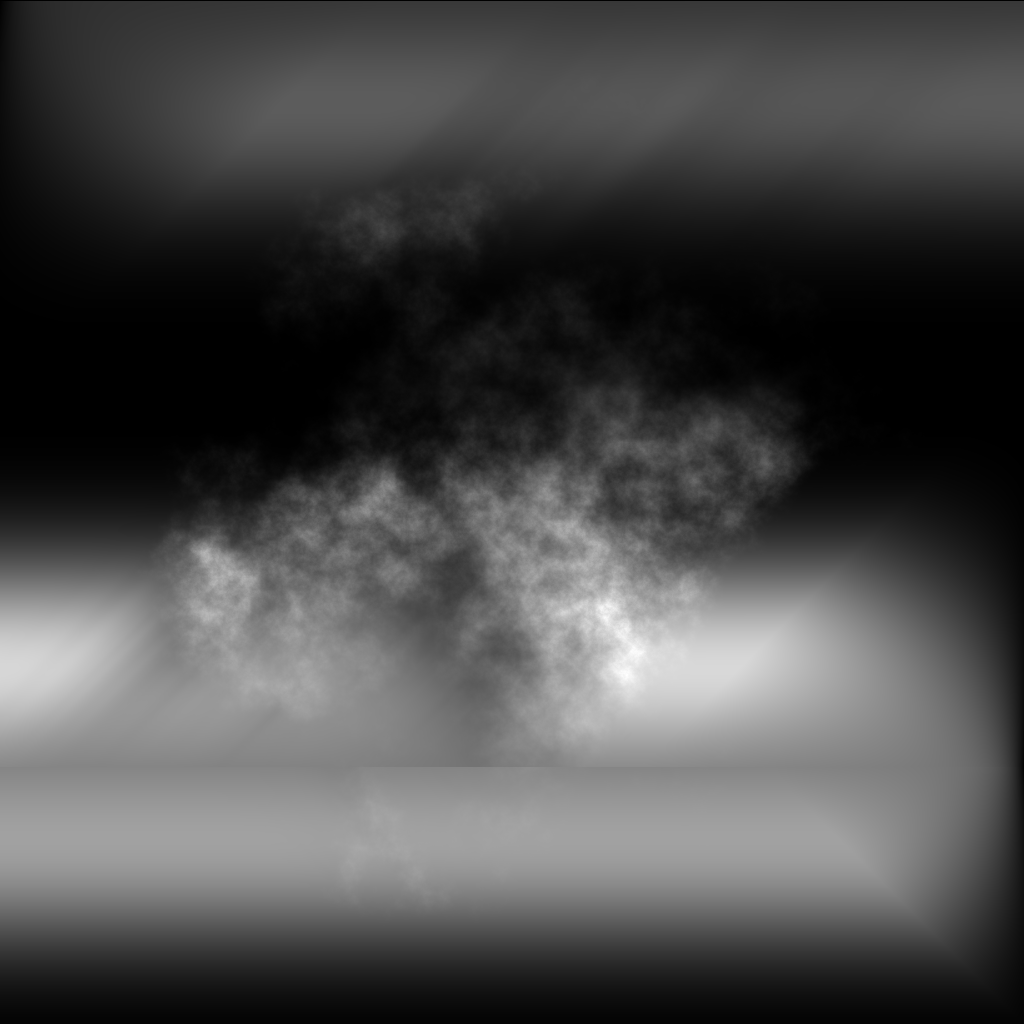
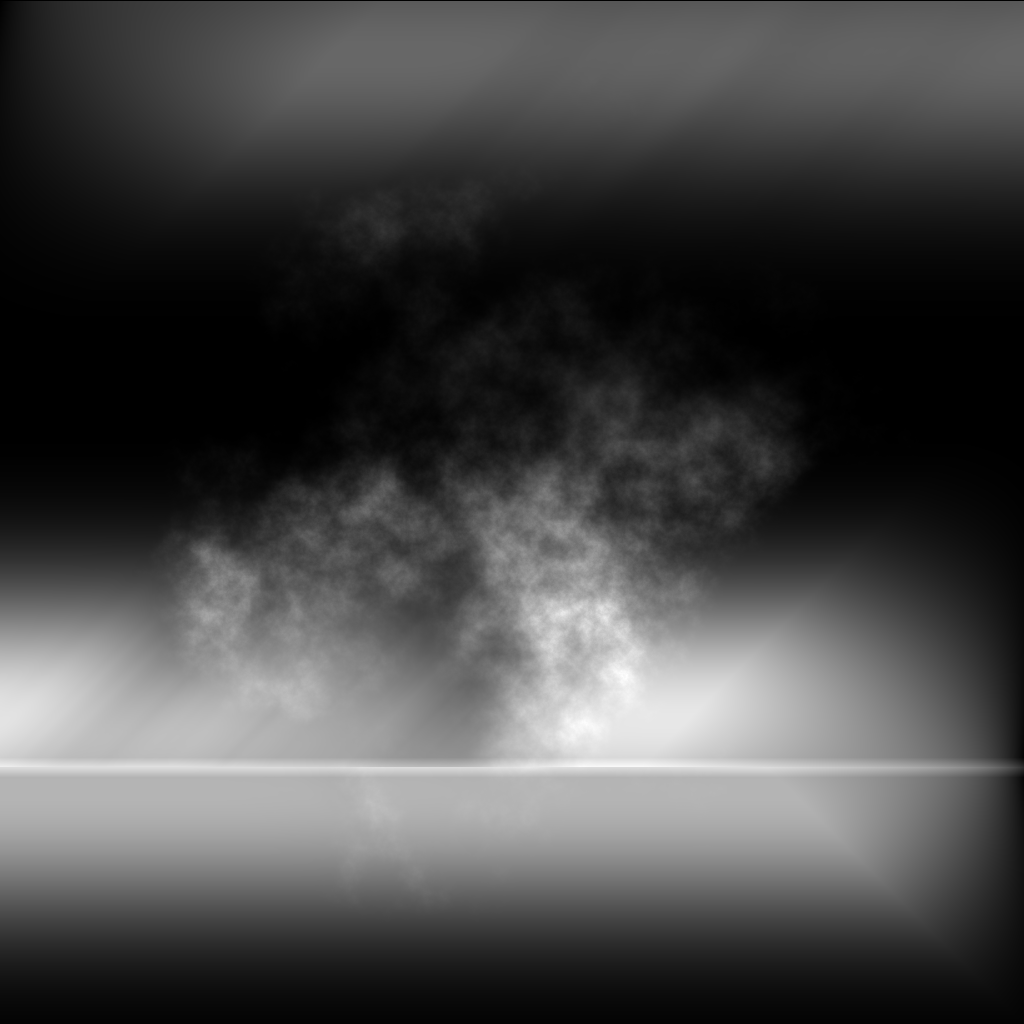
Attempt to bandaid the equator line

diff --git a/src/map.rs b/src/map.rs
@@ -154,7 +154,7 @@ fn do_wind(x: usize, y: usize, y_to: usize, lat: f64, lat_goal: f64,
 
         let lat_t = latitudes[ii];
 
-        let cloud = water * (heightmap[ii].powf(0.75) + ((lat_t - lat) / (lat_goal - lat)).powi(3)) * 50. / size as f64;
+        let cloud = water * (heightmap[ii].powf(0.75) + ((lat_t - lat) / (lat_goal - lat)).powi(3)) * 25. / size as f64;
         cloudmap[ii] = cloud;
         water -= cloud;
     }
@@ -324,18 +324,18 @@ impl ProvBuilder {
 
         if s30 != s60 {
             for x in 0..size {
-                do_wind(x, s30, s60, -30., -60., (1., -1.), size, &mut self.cloudmap, &self.latitude, &self.heightmap, 0.2, 1.);
+                do_wind(x, s30, s60, -30., -60., (1., -1.), size, &mut self.cloudmap, &self.latitude, &self.heightmap, 0.1, 1.);
             }
             for y in s60..s30 {
-                do_wind(0, y, s60, -30., -60., (1., -1.), size, &mut self.cloudmap, &self.latitude, &self.heightmap, 0.2, (y - s60) as f64 / (s30 - s60) as f64);
+                do_wind(0, y, s60, -30., -60., (1., -1.), size, &mut self.cloudmap, &self.latitude, &self.heightmap, 0.1, (y - s60) as f64 / (s30 - s60) as f64);
             }
         }
         if s30 != s0 {
             for x in 0..size {
-                do_wind(x, s30, s0, -30., 0., (-1., 1.), size, &mut self.cloudmap, &self.latitude, &self.heightmap, 0.5, 1.);
+                do_wind(x, s30, s0, -30., 0., (-1., 1.), size, &mut self.cloudmap, &self.latitude, &self.heightmap, 0.25, 1.);
             }
             for y in s30..s0 {
-                do_wind(size - 1, y, s0, -30., 0., (-1., 1.), size, &mut self.cloudmap, &self.latitude, &self.heightmap, 0.5, (s0 - y) as f64 / (s0 - s30) as f64);
+                do_wind(size - 1, y, s0, -30., 0., (-1., 1.), size, &mut self.cloudmap, &self.latitude, &self.heightmap, 0.25, (s0 - y) as f64 / (s0 - s30) as f64);
             }
         }
         if n30 != s0 {
@@ -348,18 +348,32 @@ impl ProvBuilder {
             }
 
             for x in 0..size {
-                do_wind(x, n30, s00, 30., 0., (-1., -1.), size, &mut self.cloudmap, &self.latitude, &self.heightmap, 0.5, 1.);
+                do_wind(x, n30, s00, 30., 0., (-1., -1.), size, &mut self.cloudmap, &self.latitude, &self.heightmap, 0.25, 1.);
             }
             for y in s00..n30 {
-                do_wind(size - 1, y, s00, 30., 0., (-1., -1.), size, &mut self.cloudmap, &self.latitude, &self.heightmap, 0.5, (y - s00) as f64 / (n30 - s00) as f64);
+                do_wind(size - 1, y, s00, 30., 0., (-1., -1.), size, &mut self.cloudmap, &self.latitude, &self.heightmap, 0.25, (y - s00) as f64 / (n30 - s00) as f64);
+            }
+
+            if s30 != s0 {
+                let y_diff = (size as f64).cbrt() as usize;
+                for x in 0..size { 
+                    self.cloudmap[s0 * size + x] += 0.05; 
+                }
+
+                for y in 1..y_diff {
+                    for x in 0..size {
+                        self.cloudmap[(s0 - y) * size + x] += 0.05 * (y_diff as f64 - y as f64) / y_diff as f64;
+                        self.cloudmap[(s0 + y) * size + x] += 0.05 * (y_diff as f64 - y as f64) / y_diff as f64;
+                    }
+                }
             }
         }
         if n30 != n60 {
             for x in 0..size {
-                do_wind(x, n30, n60, 30., 60., (1., 1.), size, &mut self.cloudmap, &self.latitude, &self.heightmap, 0.2, 1.);
+                do_wind(x, n30, n60, 30., 60., (1., 1.), size, &mut self.cloudmap, &self.latitude, &self.heightmap, 0.1, 1.);
             }
             for y in n30..n60 {
-                do_wind(0, y, n60, 30., 60., (1., 1.), size, &mut self.cloudmap, &self.latitude, &self.heightmap, 0.2, (n60 - y) as f64 / (n60 - n30) as f64);
+                do_wind(0, y, n60, 30., 60., (1., 1.), size, &mut self.cloudmap, &self.latitude, &self.heightmap, 0.1, (n60 - y) as f64 / (n60 - n30) as f64);
             }
         }
 
